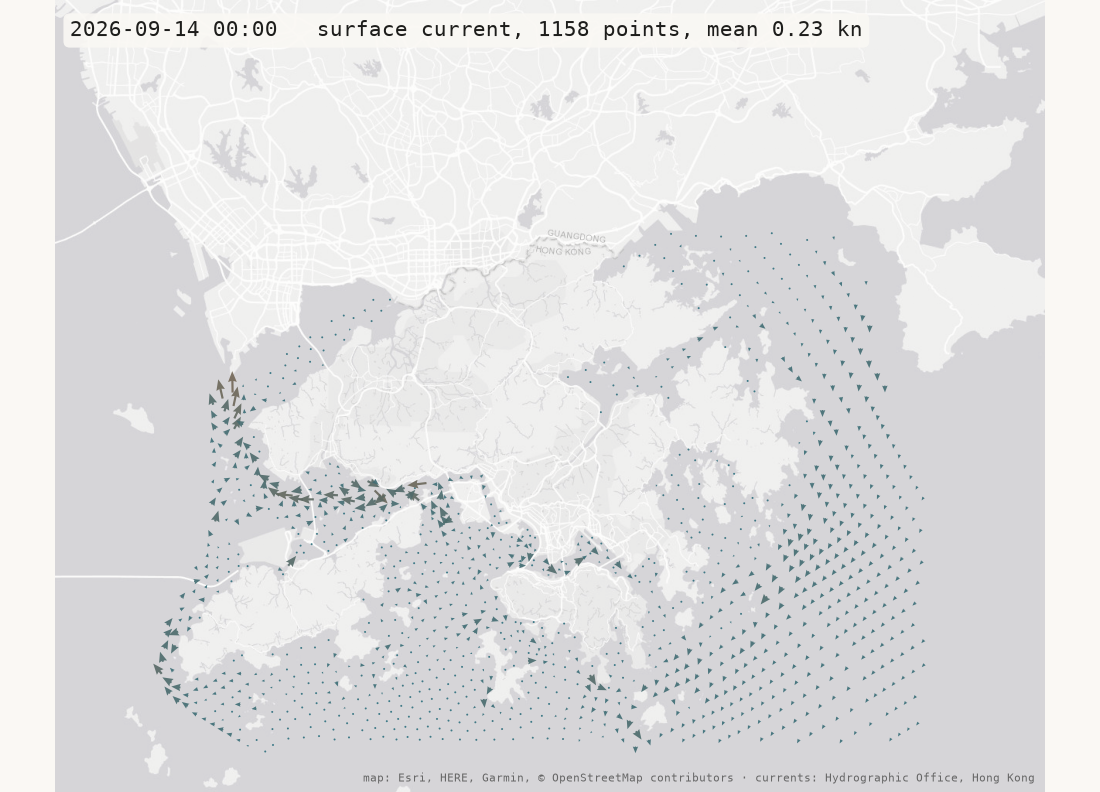
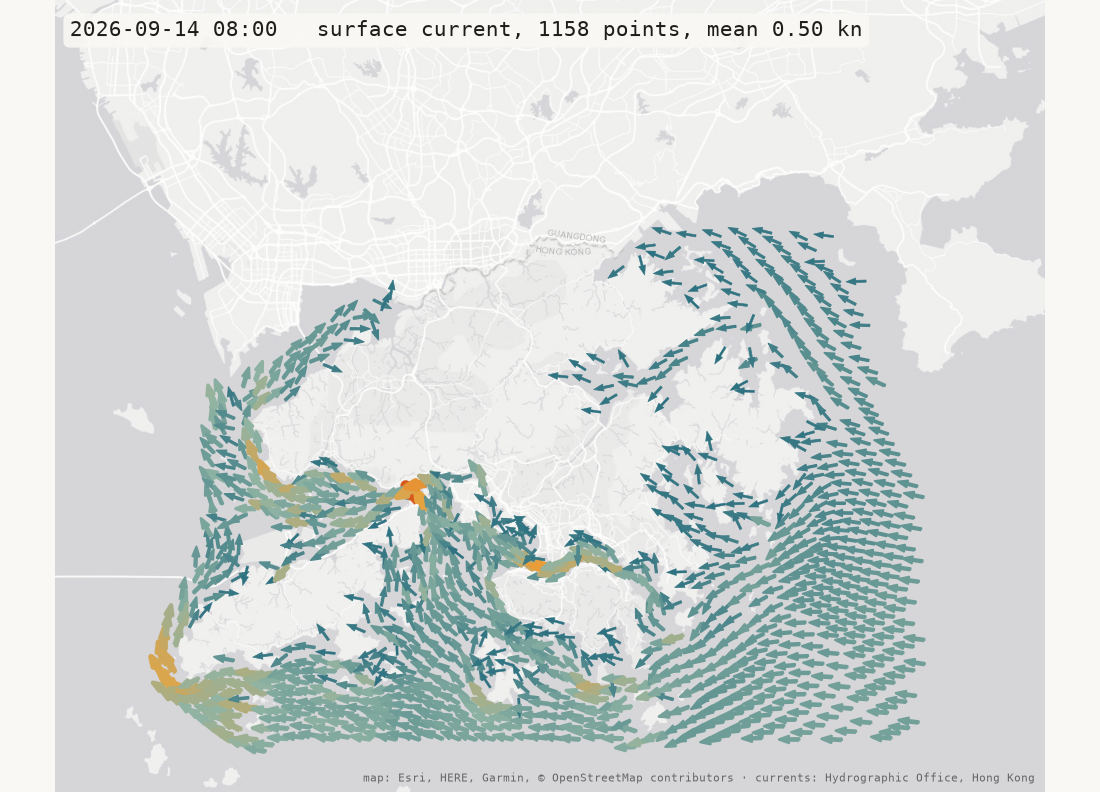
week03: arrows keep one length — speed is thickness and colour (ARROW_STYLE), a four-stop ramp, --still

Changed region(s): [[0.1236, 0.2727, 0.8345, 0.9697], [0.7109, 0.0303, 0.7418, 0.0606]]

diff --git a/week03/currents.py b/week03/currents.py
@@ -9,6 +9,7 @@ The tidal streams of Hong Kong, on a map, moving.
 Run it:
 
     uv run currents.py            # out/currents.png and out/currents.webp — arrows, one frame per hour
+    uv run currents.py --still    # only the PNG: the quick way to try the knobs
     uv run currents.py --drift    # out/currents-drift.webp — particles carried by the water
 
 `fetch.py` asks the Hydrographic Office for five days of its tidal-stream forecast,
@@ -54,7 +55,11 @@ from PIL import Image
 # ---------------------------------------------------------------------------
 
 ZOOM = 11                  # map tiles: 10 is coarse and quick, 12 is sharp and 4x the pixels
-ARROW = 22.0               # pixels of arrow per knot of current
+ARROW_STYLE = "weight"     # "weight": every arrow the same length, speed as thickness and colour
+                           # "length": speed as length too — the classic vector plot, busier
+ARROW = 26.0               # "length": pixels of arrow per knot. "weight": pixels of every arrow
+WEIGHT = 2.4               # "weight": extra line width per knot
+STILL = 8                  # which hour of the data out/currents.png shows (0 is the first)
 THIN = 1                   # draw every THIN-th arrow (2 halves the clutter)
 FPS = 12                   # frames per second: 120 hours in ten seconds
 
@@ -73,6 +78,7 @@ PAPER = "#faf8f4"
 INK = "#1d1d1b"
 WATER = "#2a6f7f"
 FAST = "#d6591d"
+RAMP = [WATER, "#8fb3a3", "#e9a23b", FAST]   # slow to fast. Straight teal-to-orange goes through mud
 FIGSIZE = (10, 7.2)
 DPI = 72                   # of the films. They are animated WebP, not GIF: the same 120 frames
                            # were 10 MB as a GIF and are under 3 MB as WebP, and GitHub plays both
@@ -198,18 +204,25 @@ def arrows_figure(slots):
         when, arrows = slots[i]
         xs, ys, us, vs, speed = [], [], [], [], []
         for lng, lat, knot, deg in arrows[::THIN]:
+            if knot == 0:
+                continue                                      # slack water has no direction
             x, y = to_pixel(lng, lat)
             u, v = to_xy(knot, deg)
+            if ARROW_STYLE == "weight":                       # same length for all: divide the speed out
+                u, v = u / knot, v / knot
             xs.append(x)
             ys.append(y)
             us.append(u * ARROW)
-            vs.append(-v * ARROW)                            # north is up, pixel y is down
+            vs.append(-v * ARROW)                             # north is up, pixel y is down
             speed.append(knot)
         if quiver is not None:
             quiver.remove()
+        widths = [0.2 + WEIGHT * k for k in speed] if ARROW_STYLE == "weight" else 0
         quiver = ax.quiver(xs, ys, us, vs, speed, angles="xy", scale_units="xy", scale=1,
-                           cmap=matplotlib.colors.LinearSegmentedColormap.from_list("sea", [WATER, FAST]),
-                           clim=(0, 3), width=0.0022, headwidth=4, headlength=5, alpha=0.9)
+                           cmap=matplotlib.colors.LinearSegmentedColormap.from_list("sea", RAMP),
+                           clim=(0, 2.5), width=0.0022, headwidth=3.2, headlength=4.5,
+                           alpha=1.0 if ARROW_STYLE == "weight" else 0.9,
+                           linewidths=widths, edgecolor="face")
         mean = sum(speed) / len(speed)
         label.set_text(f"{when}   surface current, {len(arrows)} points, mean {mean:.2f} kn")
         return quiver, label
@@ -326,10 +339,12 @@ def main():
         return
 
     fig, frame = arrows_figure(slots)
-    frame(0)
+    frame(STILL)
     still = OUT / "currents.png"
     fig.savefig(still, dpi=110, facecolor=PAPER)
     print(f"wrote {still.relative_to(HERE)}")
+    if "--still" in sys.argv:                          # just the PNG, for trying knobs quickly
+        return
     anim = FuncAnimation(fig, frame, frames=len(slots), interval=1000 / FPS, blit=False)
     path = OUT / "currents.webp"
     anim.save(path, writer=PillowWriter(fps=FPS), dpi=DPI)

diff --git a/week03/currents_web.py b/week03/currents_web.py
@@ -47,7 +47,11 @@ from folium.plugins import TimestampedGeoJson
 THIN = 2                   # keep every THIN-th arrow: 1 is all 1,158 per frame, 2 is half
 MIN_KNOT = 0.4             # skip arrows slower than this: half the open sea barely moves, and
                            # 120 hours of it would make a 25 MB page
-ARROW_MINUTES = 40         # an arrow's length is how far the water goes in this many minutes
+ARROW_STYLE = "weight"     # "weight": every arrow the same length, speed as thickness and colour
+                           # "length": speed as length too — the classic vector plot, busier
+ARROW_MINUTES = 40         # "length": an arrow reaches where the water gets in this many minutes
+                           # "weight": where one knot of water would get in this many minutes
+WEIGHT = 2.5               # "weight": extra line width per knot
 PLAY_MS = 150              # milliseconds per hour when playing: five days in eighteen seconds
 CENTRE = (22.30, 114.15)   # where the map opens (lat, lng — Leaflet's order, not ours)
 ZOOM = 11
@@ -91,12 +95,17 @@ def to_lnglat(lng, lat, east, north, minutes):
     return (lng + dlng, lat + dlat)
 
 
+RAMP = [SLOW, "#8fb3a3", "#e9a23b", FAST]     # slow to fast; straight teal-to-orange goes through mud
+
+
 def colour(knot):
-    """SLOW to FAST, mixed by speed. Three knots is as fast as this water gets."""
-    t = min(knot / 3, 1)
-    a = tuple(int(SLOW[i:i + 2], 16) for i in (1, 3, 5))
-    b = tuple(int(FAST[i:i + 2], 16) for i in (1, 3, 5))
-    return "#%02x%02x%02x" % tuple(round(a[i] + (b[i] - a[i]) * t) for i in range(3))
+    """A colour off the ramp for this speed. 2.5 knots is as fast as this water gets."""
+    t = min(knot / 2.5, 1) * (len(RAMP) - 1)
+    i = min(int(t), len(RAMP) - 2)
+    f = t - i
+    a = tuple(int(RAMP[i][j:j + 2], 16) for j in (1, 3, 5))
+    b = tuple(int(RAMP[i + 1][j:j + 2], 16) for j in (1, 3, 5))
+    return "#%02x%02x%02x" % tuple(round(a[k] + (b[k] - a[k]) * f) for k in range(3))
 
 
 # ---------------------------------------------------------------------------
@@ -106,13 +115,17 @@ def colour(knot):
 
 def feature(when, lng, lat, knot, deg):
     east, north = to_xy(knot, deg)
+    if ARROW_STYLE == "weight":                          # same length for all: divide the speed out
+        east, north = east / knot, north / knot
     tip = to_lnglat(lng, lat, east, north, ARROW_MINUTES)
     return {
         "type": "Feature",
         "geometry": {"type": "LineString", "coordinates": [[lng, lat], list(tip)]},
         "properties": {
             "times": [when.replace(" ", "T") + ":00+08:00"] * 2,
-            "style": {"color": colour(knot), "weight": 1 + knot, "opacity": 0.85},
+            "style": {"color": colour(knot),
+                      "weight": 1 + (WEIGHT * knot if ARROW_STYLE == "weight" else knot),
+                      "opacity": 0.85},
             "popup": f"{when} · {knot:.2f} kn · {deg:.0f}°",
         },
     }

diff --git a/week03/README.md b/week03/README.md
@@ -236,9 +236,17 @@ else, and each one says where in the code.
 one picture that could not be drawn by hand, and every step written down. Yours
 does not need a map. It needs the three things.
 
-Knobs: `FPS` (how fast the five days go by), `SPEEDUP` (how far the water gets per
-frame in `--drift`), `TRAIL`, `ZOOM = 12` for a sharper map (four times the tiles,
-one fetch). In `fetch.py`: `DATE`, `SLOTS`, `STEP_MINUTES` — every 15 minutes is
+**A design decision, made visible.** Every arrow is the same length; speed is
+its thickness and its colour. That is `ARROW_STYLE = "weight"`. The classic vector
+plot — speed as length too — is `ARROW_STYLE = "length"`, one word away, and it is
+worth running both: the long arrows in the fast channels pile over each other and
+the picture reads as clutter where it should read as force. Same numbers, one
+knob, a different claim. `uv run currents.py --still` draws only the PNG, which is
+the quick way to try it.
+
+Knobs: `ARROW_STYLE`, `FPS` (how fast the five days go by), `STILL` (which hour
+the PNG shows), `SPEEDUP` (how far the water gets per frame in `--drift`),
+`TRAIL`, `ZOOM = 12` for a sharper map (four times the tiles, one fetch). In `fetch.py`: `DATE`, `SLOTS`, `STEP_MINUTES` — every 15 minutes is
 what the office publishes; every 60 is what keeps the file at 7 MB.
 
 ### The same arrows as a web page
